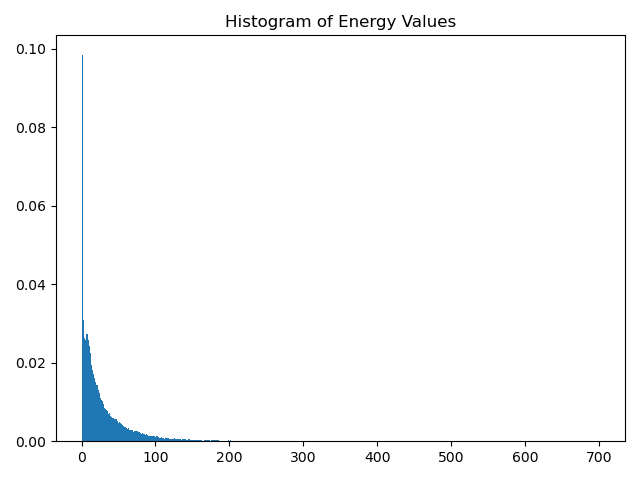
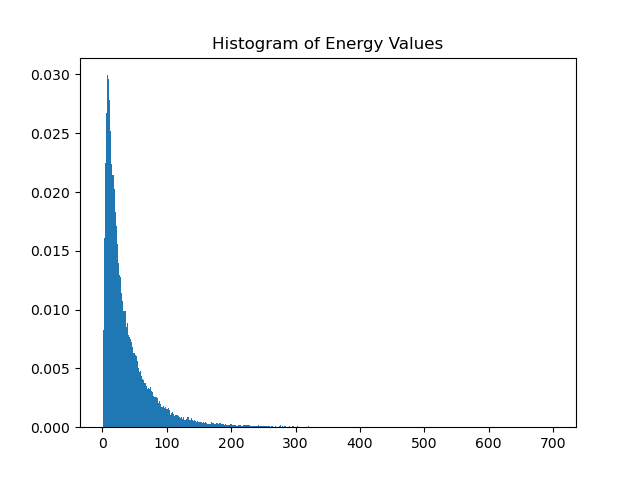
Updated blog post

diff --git a/_posts/2025-10-08-Energy-Not-Predictive.md b/_posts/2025-10-08-Energy-Not-Predictive.md
@@ -23,7 +23,7 @@ As we can see, a mixture of normal distributions fits our data well. The distrib
 
 Now, we have our energy calculated and have enough forecasted values to see if we can predict surf heights. Let's look at a scatter plot of forecast heights relative to buoy energy values (prepare to be disappointed):
 
-![Energy vs Forecast Scatter](/assets/images/fcast_scatter.png)
+![Energy vs Forecast Scatter](/assets/images/fcast_scatter2.png)
 
 What we want to see is ideally no overlap in the values as we look left to right. Essentially, we want a linear relationship (though some uncertainty would be acceptable). To understand why this doesn't work, imagine a line being drawn at a y-value of 50. It would intersect stomach-overhead values.
 
